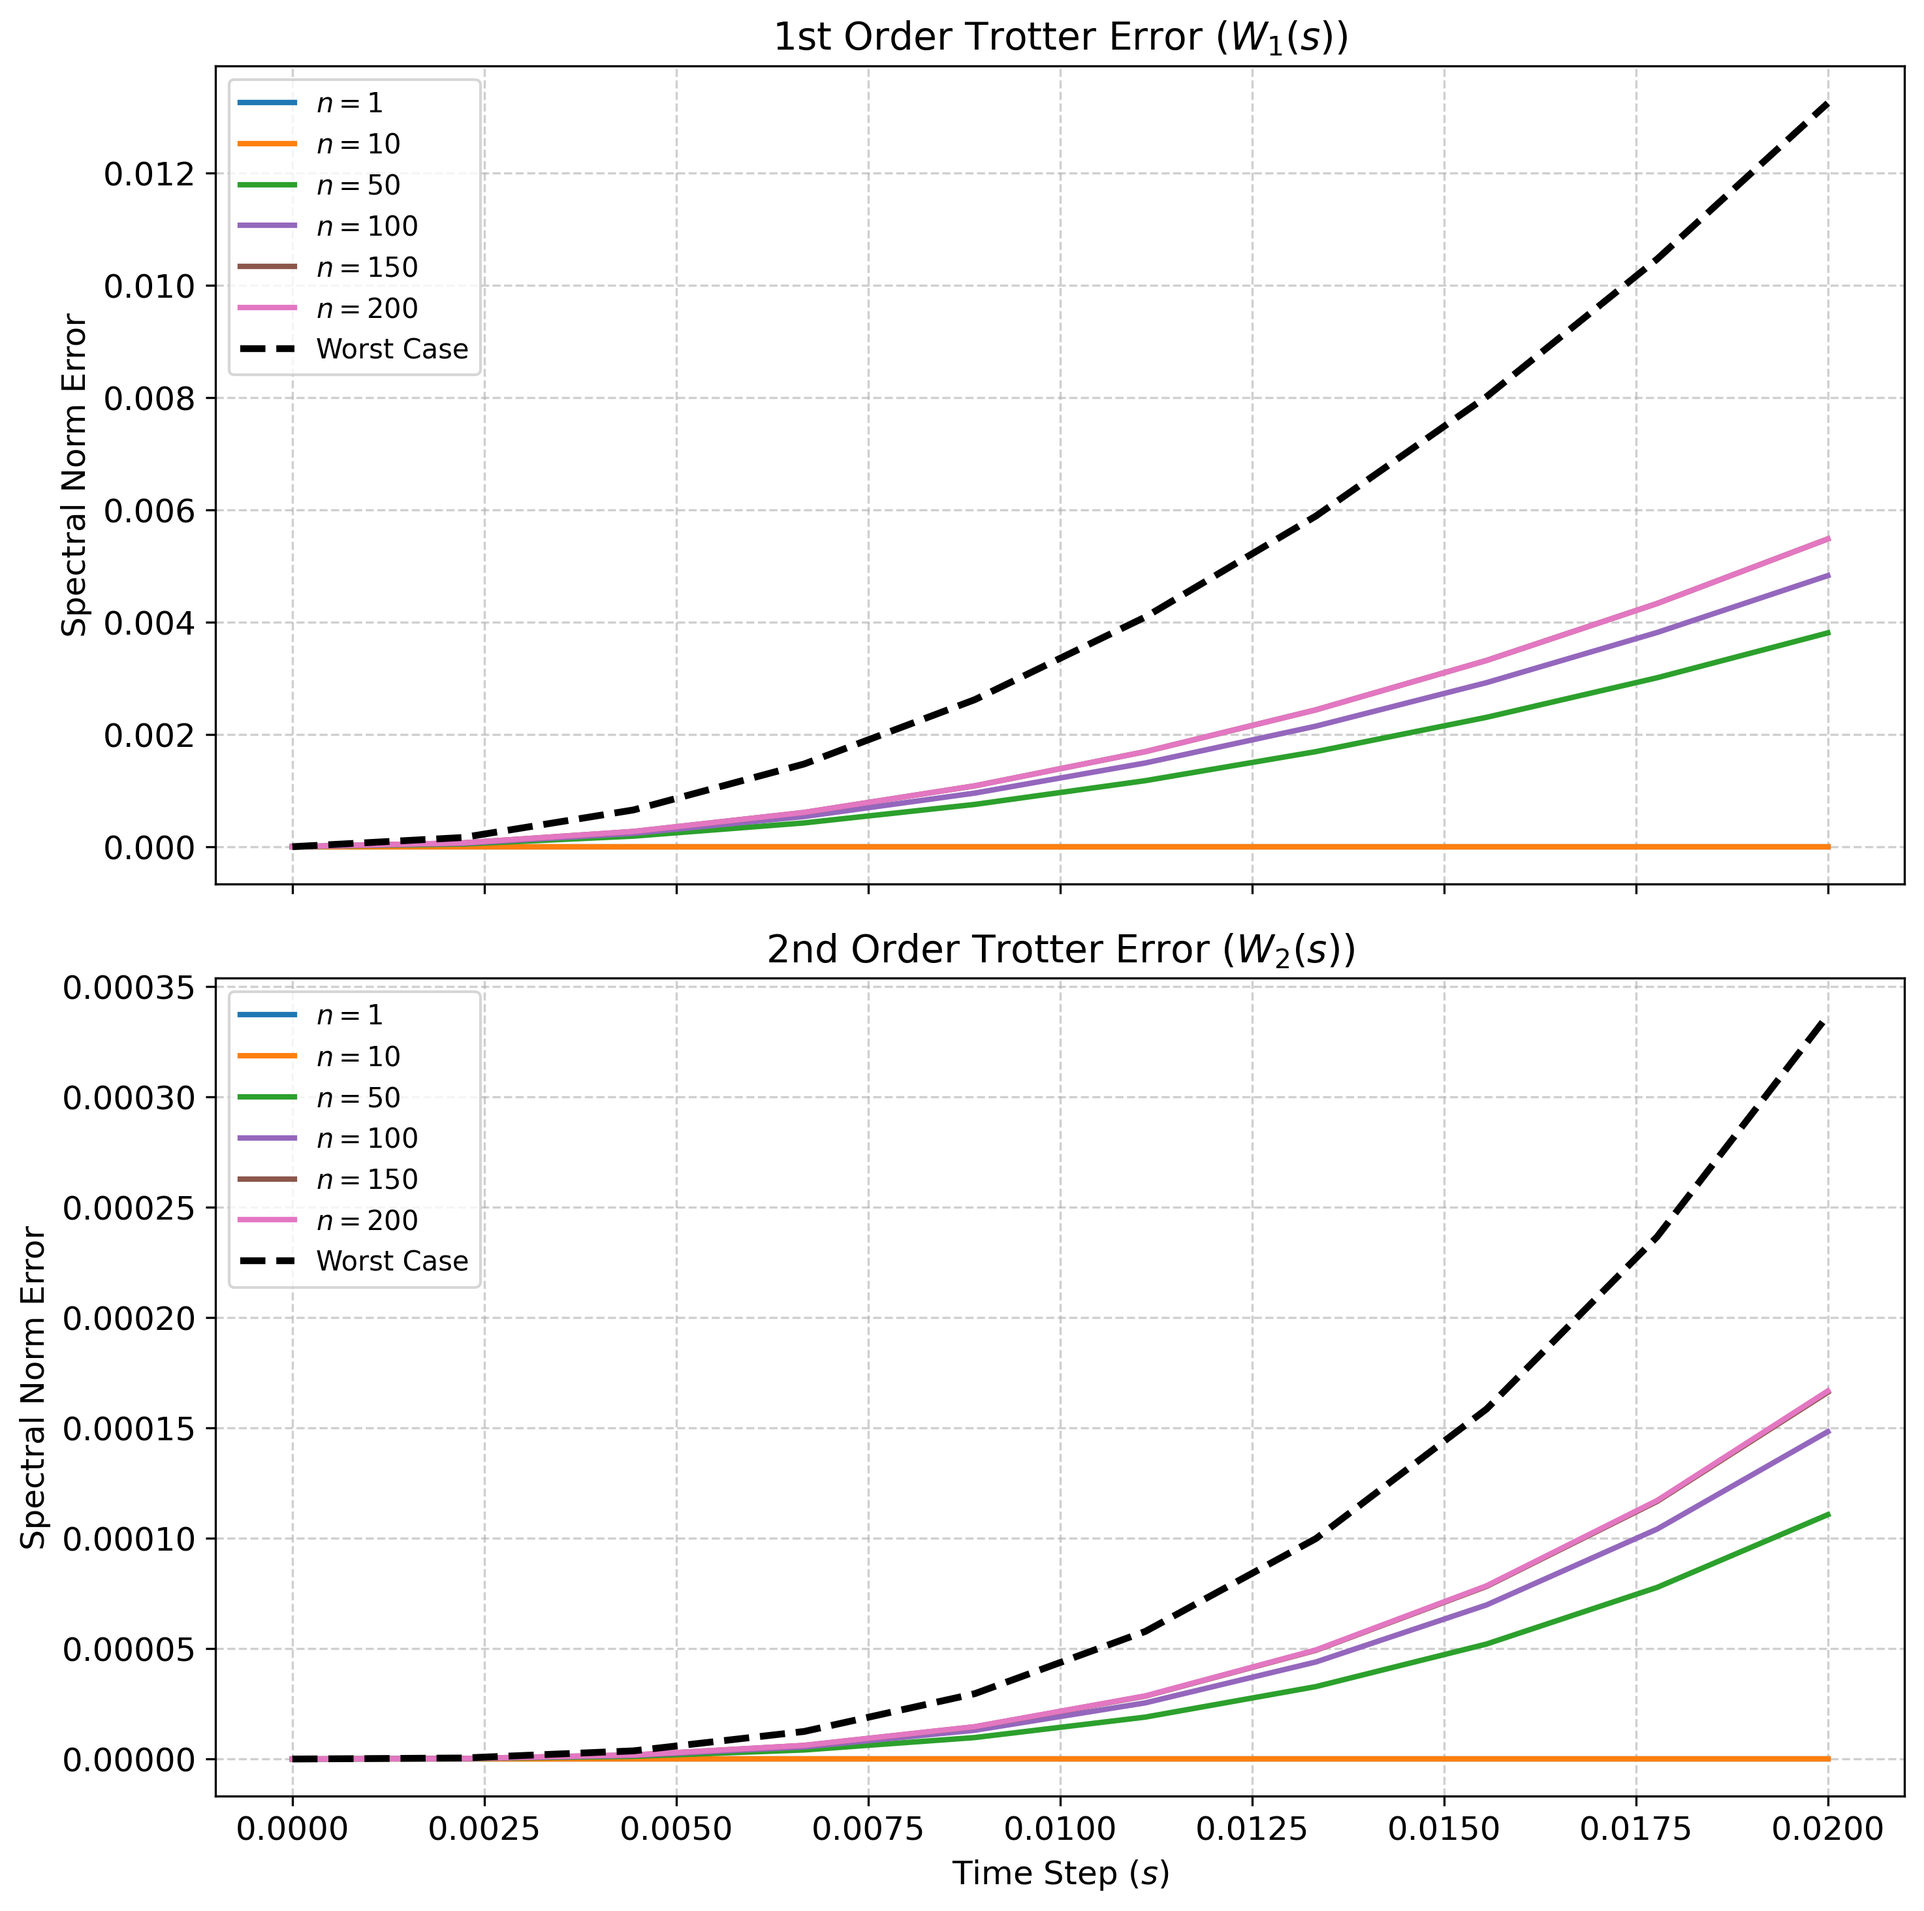
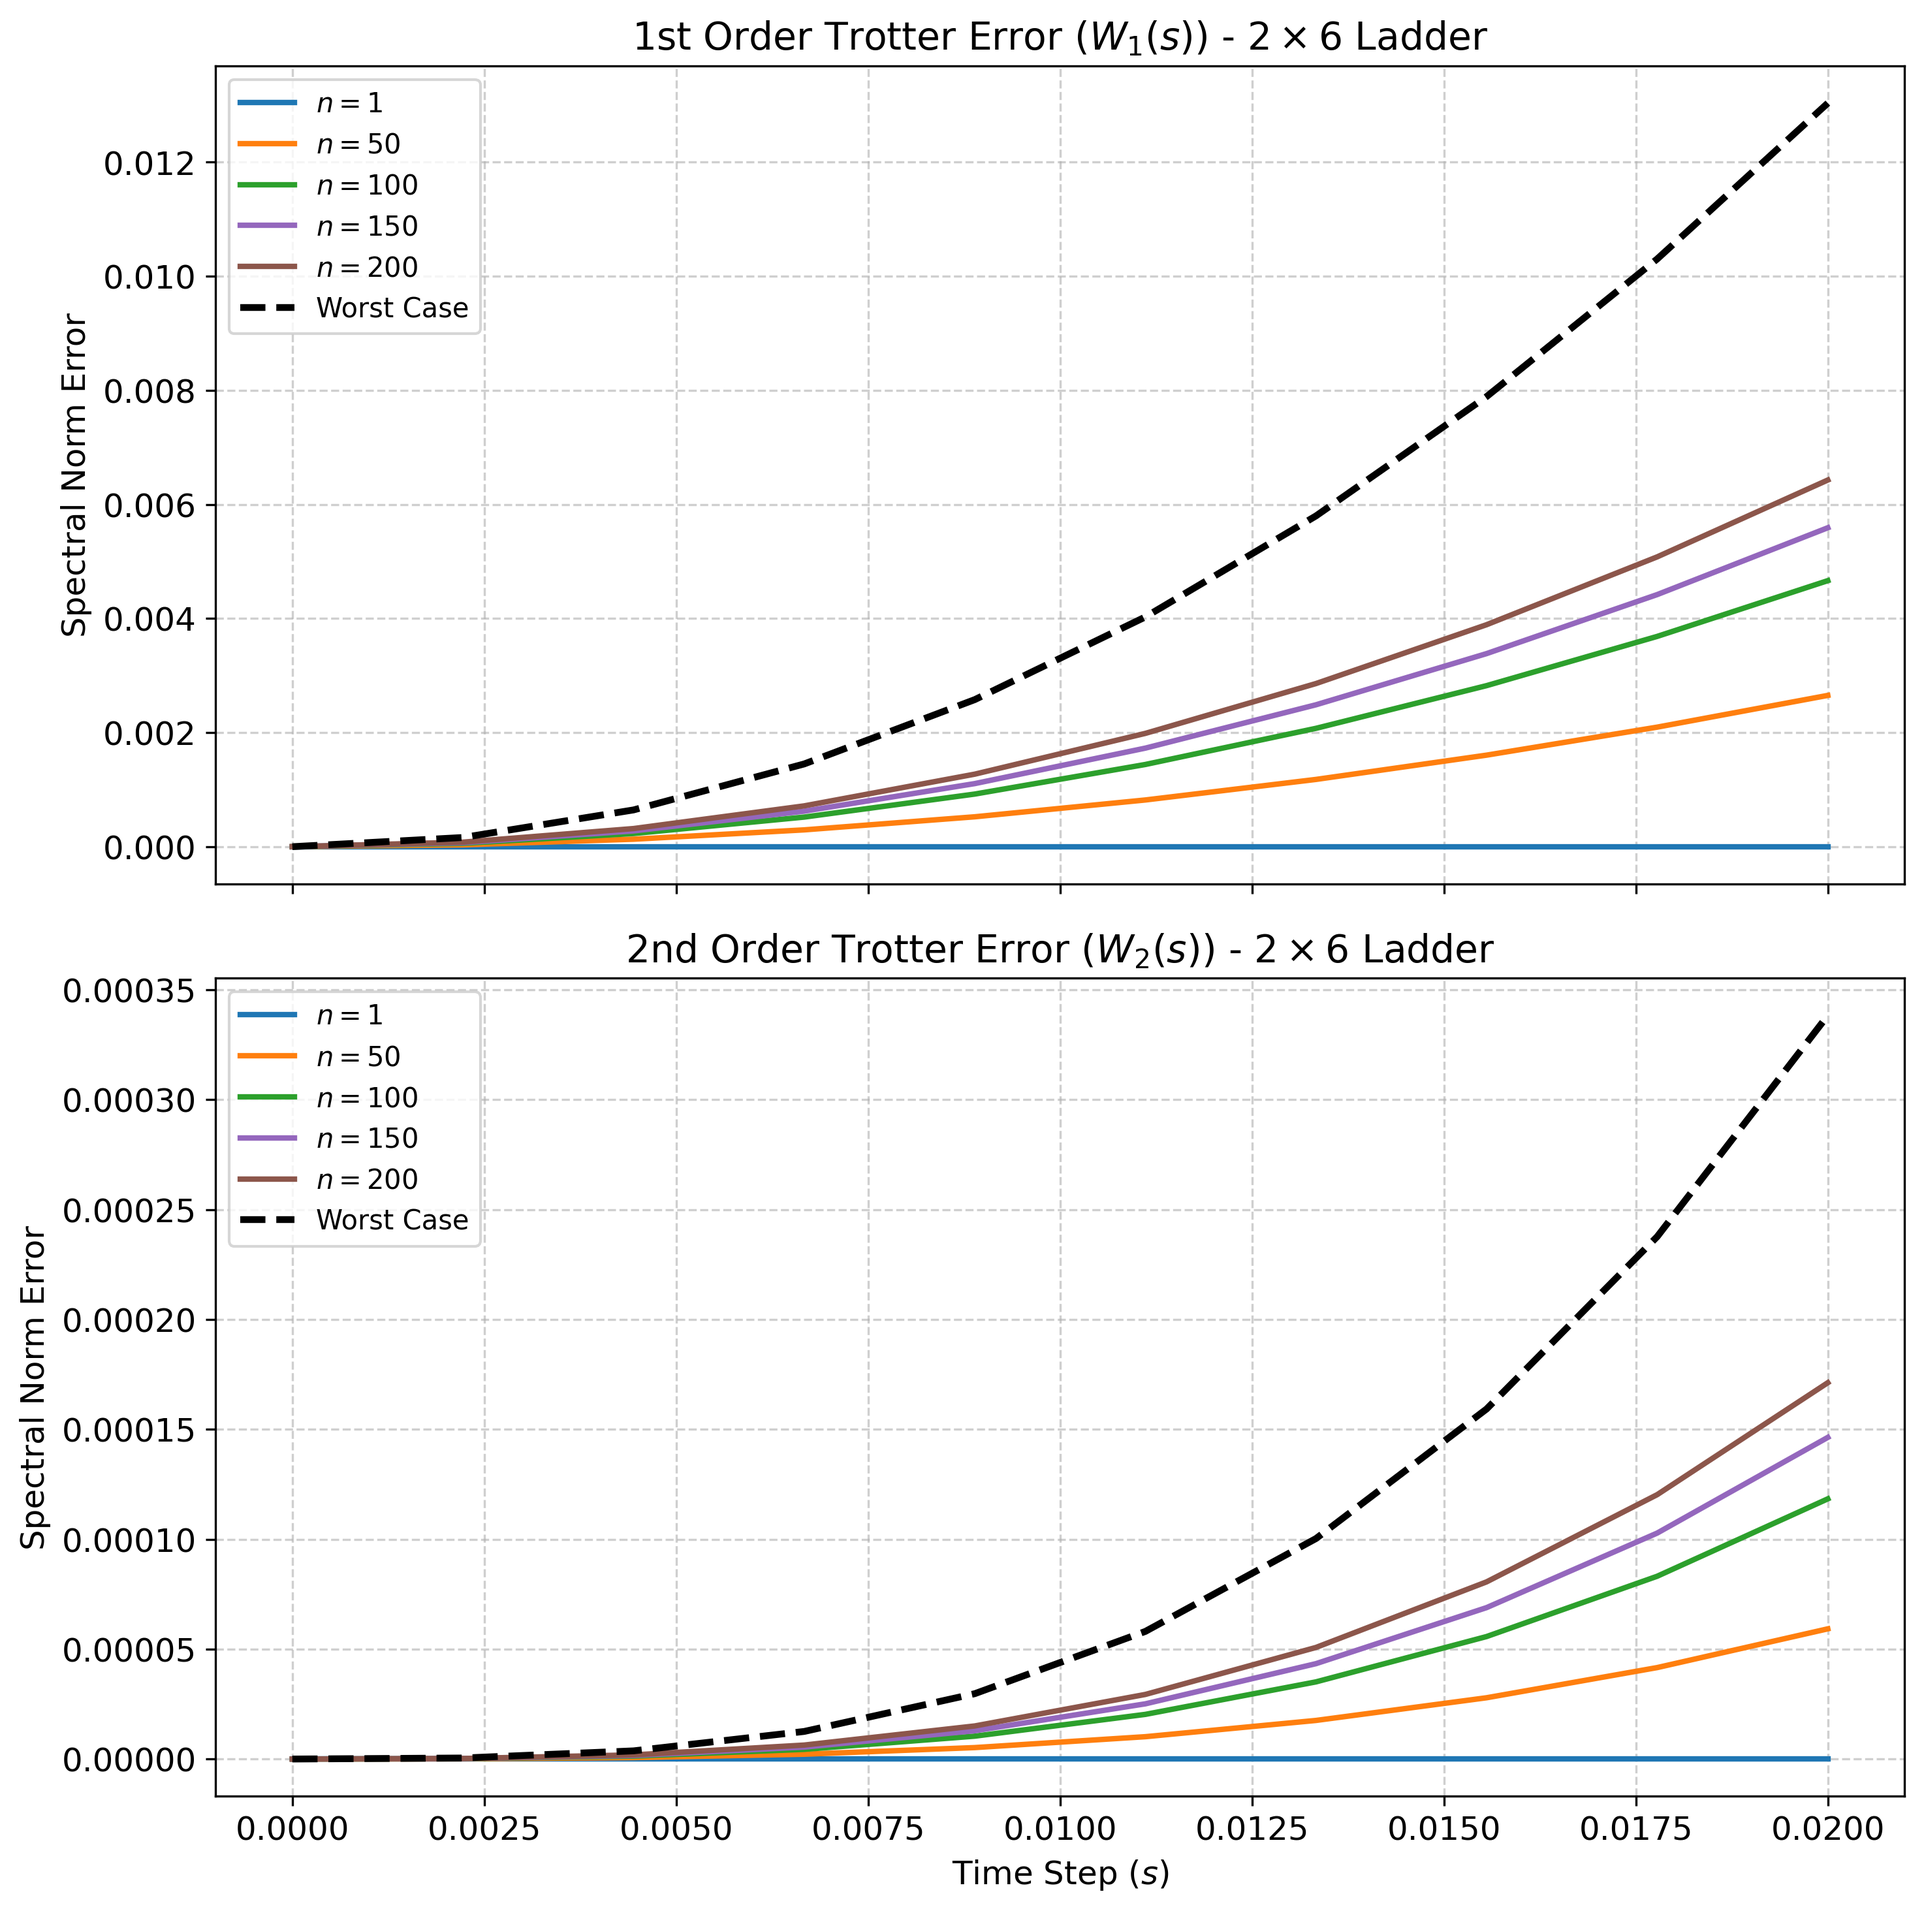
minute changes

diff --git a/2D_chain_sim.py b/2D_chain_sim.py
@@ -6,6 +6,7 @@ import scipy.sparse as sp
 import scipy.sparse.linalg as spla
 import matplotlib.pyplot as plt
 
+# --- Formatting & Setup ---
 os.makedirs('images', exist_ok=True)
 plt.rcParams.update({
     'font.size': 12,
@@ -15,12 +16,11 @@ plt.rcParams.update({
     'lines.linewidth': 2
 })
 
-# --- System Definition ---
-Nx, Ny = 2, 6       
-N = Nx * Ny         
-dim = 2**N          
+Nx, Ny = 2, 6       # 2x6 Spin Ladder
+N = Nx * Ny         # 12 Spins
+dim = 2**N          # 4096 x 4096 Matrix
 
-print(f"Initializing a {dim}x{dim} system for the 2D Chain...")
+print(f"Initializing a {dim}x{dim} system for the 2x6 Ladder...")
 
 I = sp.eye(2, format='csr', dtype=complex)
 X = sp.csr_matrix([[0, 1], [1, 0]], dtype=complex)
@@ -35,46 +35,60 @@ def get_interaction_sparse(site1, site2, op):
         term = sp.kron(term, ops[i], format='csr')
     return term
 
-edges = []
-for x in range(Nx):
-    for y in range(Ny - 1):
-        edges.append((x * Ny + y, x * Ny + y + 1))
-for y in range(Ny):
-    edges.append((0 * Ny + y, 1 * Ny + y))
-
+# --- Corrected Topological Partition ---
 H1_sparse = sp.csr_matrix((dim, dim), dtype=complex)
 H2_sparse = sp.csr_matrix((dim, dim), dtype=complex)
 
-for i, (u, v) in enumerate(edges):
+edges_H1 = []
+edges_H2 = []
+
+for y in range(Ny):
+    edges_H1.append((0 * Ny + y, 1 * Ny + y))
+
+for x in range(Nx):
+    for y in range(Ny - 1):
+        edge = (x * Ny + y, x * Ny + y + 1)
+        # y=0 (Blue), y=1 (Red), y=2 (Blue), y=3 (Red), y=4 (Blue)
+        if y % 2 == 0:
+            edges_H1.append(edge)
+        else:
+            edges_H2.append(edge)
+
+for u, v in edges_H1:
     term = -(get_interaction_sparse(u, v, X) + 
              get_interaction_sparse(u, v, Y) + 
              get_interaction_sparse(u, v, Z))
-    if i % 2 == 0:
-        H1_sparse += term
-    else:
-        H2_sparse += term
+    H1_sparse += term
+
+for u, v in edges_H2:
+    term = -(get_interaction_sparse(u, v, X) + 
+             get_interaction_sparse(u, v, Y) + 
+             get_interaction_sparse(u, v, Z))
+    H2_sparse += term
 
 H_sparse = H1_sparse + H2_sparse
 
 # --- Diagonalization ---
-print("Targeting the lowest 200 energy states...")
+print("Targeting the lowest 200 energy states (this takes ~5-15 seconds)...")
 t0 = time.time()
 evals, evecs = spla.eigsh(H_sparse, k=200, which='SA')
 idx = np.argsort(evals)
 evecs = evecs[:, idx]
-print(f"States extracted in {time.time() - t0:.2f} seconds.")
+print(f" -> States extracted in {time.time() - t0:.2f} seconds.")
 
 # --- Simulation Parameters ---
 s_values = np.linspace(0, 0.02, 10) 
-n_values = [1, 10, 50, 100, 150, 200]
+n_values = [1, 50, 100, 150, 200]
 
 err_W1 = {n: [] for n in n_values}; err_W1['worst'] = []
 err_W2 = {n: [] for n in n_values}; err_W2['worst'] = []
 
-print("Converting sparse matrices to dense for expm...")
-H_dense, H1_dense, H2_dense = H_sparse.toarray(), H1_sparse.toarray(), H2_sparse.toarray()
+print("Converting sparse matrices to dense for the Time Machine (expm)...")
+H_dense = H_sparse.toarray()
+H1_dense = H1_sparse.toarray()
+H2_dense = H2_sparse.toarray()
 
-print("Simulating Time Evolution Sequence...")
+print("Simulating Time Evolution Sequence (This will take a few minutes)...")
 for i, s in enumerate(s_values):
     t_step = time.time()
     
@@ -101,7 +115,7 @@ for i, s in enumerate(s_values):
 # --- Plotting ---
 print("Generating and saving plots...")
 fig, (ax1, ax2) = plt.subplots(2, 1, figsize=(10, 10), sharex=True)
-colors = ['tab:blue', 'tab:orange', 'tab:green', 'tab:purple', 'tab:brown', 'tab:pink']
+colors = ['tab:blue', 'tab:orange', 'tab:green', 'tab:purple', 'tab:brown']
 
 for idx, n in enumerate(n_values):
     ax1.plot(s_values, err_W1[n], label=f'$n = {n}$', color=colors[idx])
@@ -110,8 +124,8 @@ for idx, n in enumerate(n_values):
 ax1.plot(s_values, err_W1['worst'], 'k--', label='Worst Case', linewidth=2.5)
 ax2.plot(s_values, err_W2['worst'], 'k--', label='Worst Case', linewidth=2.5)
 
-ax1.set_title('1st Order Trotter Error ($W_1(s)$)')
-ax2.set_title('2nd Order Trotter Error ($W_2(s)$)')
+ax1.set_title('1st Order Trotter Error ($W_1(s)$) - $2\\times6$ Ladder')
+ax2.set_title('2nd Order Trotter Error ($W_2(s)$) - $2\\times6$ Ladder')
 ax1.set_ylabel('Spectral Norm Error')
 ax2.set_ylabel('Spectral Norm Error')
 ax2.set_xlabel('Time Step ($s$)')
